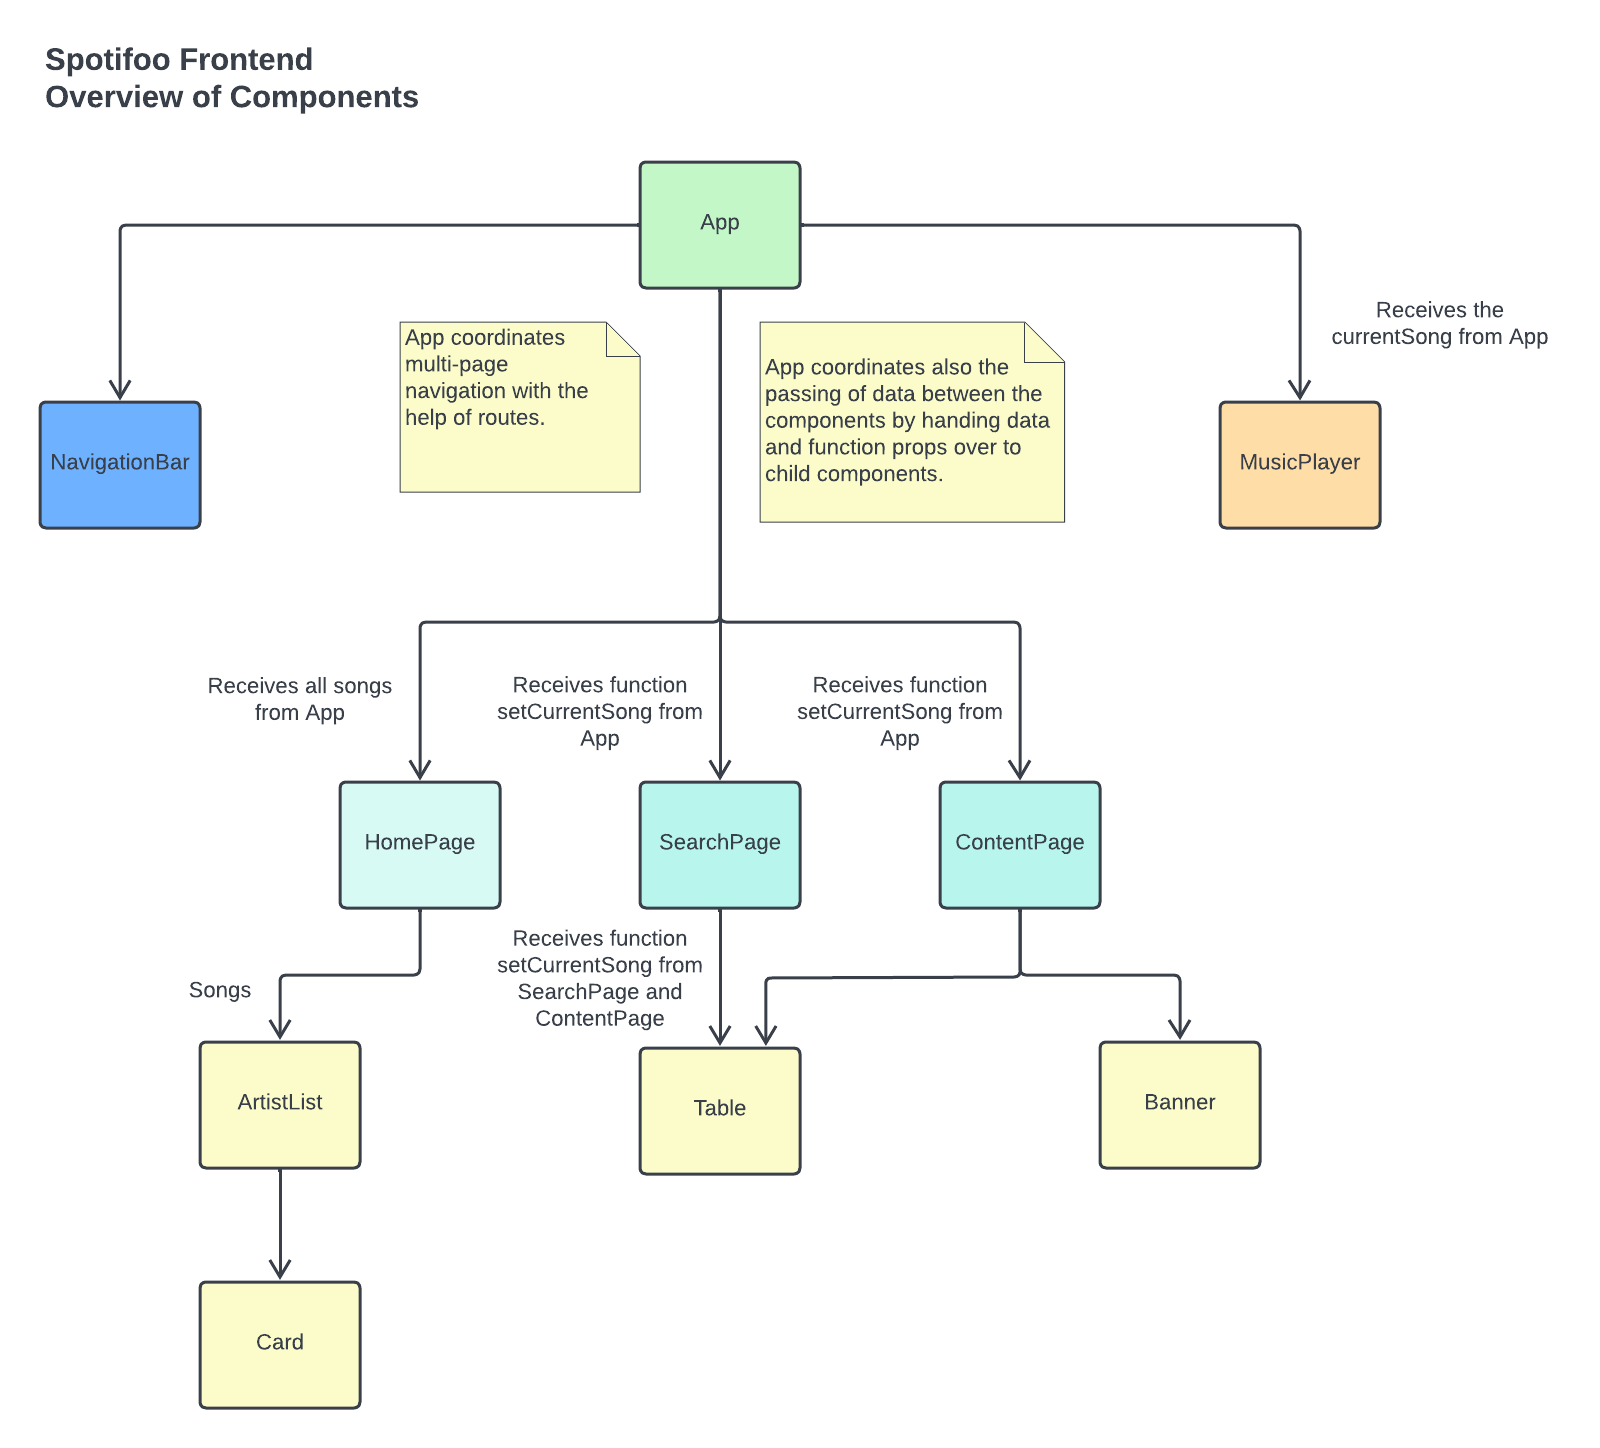
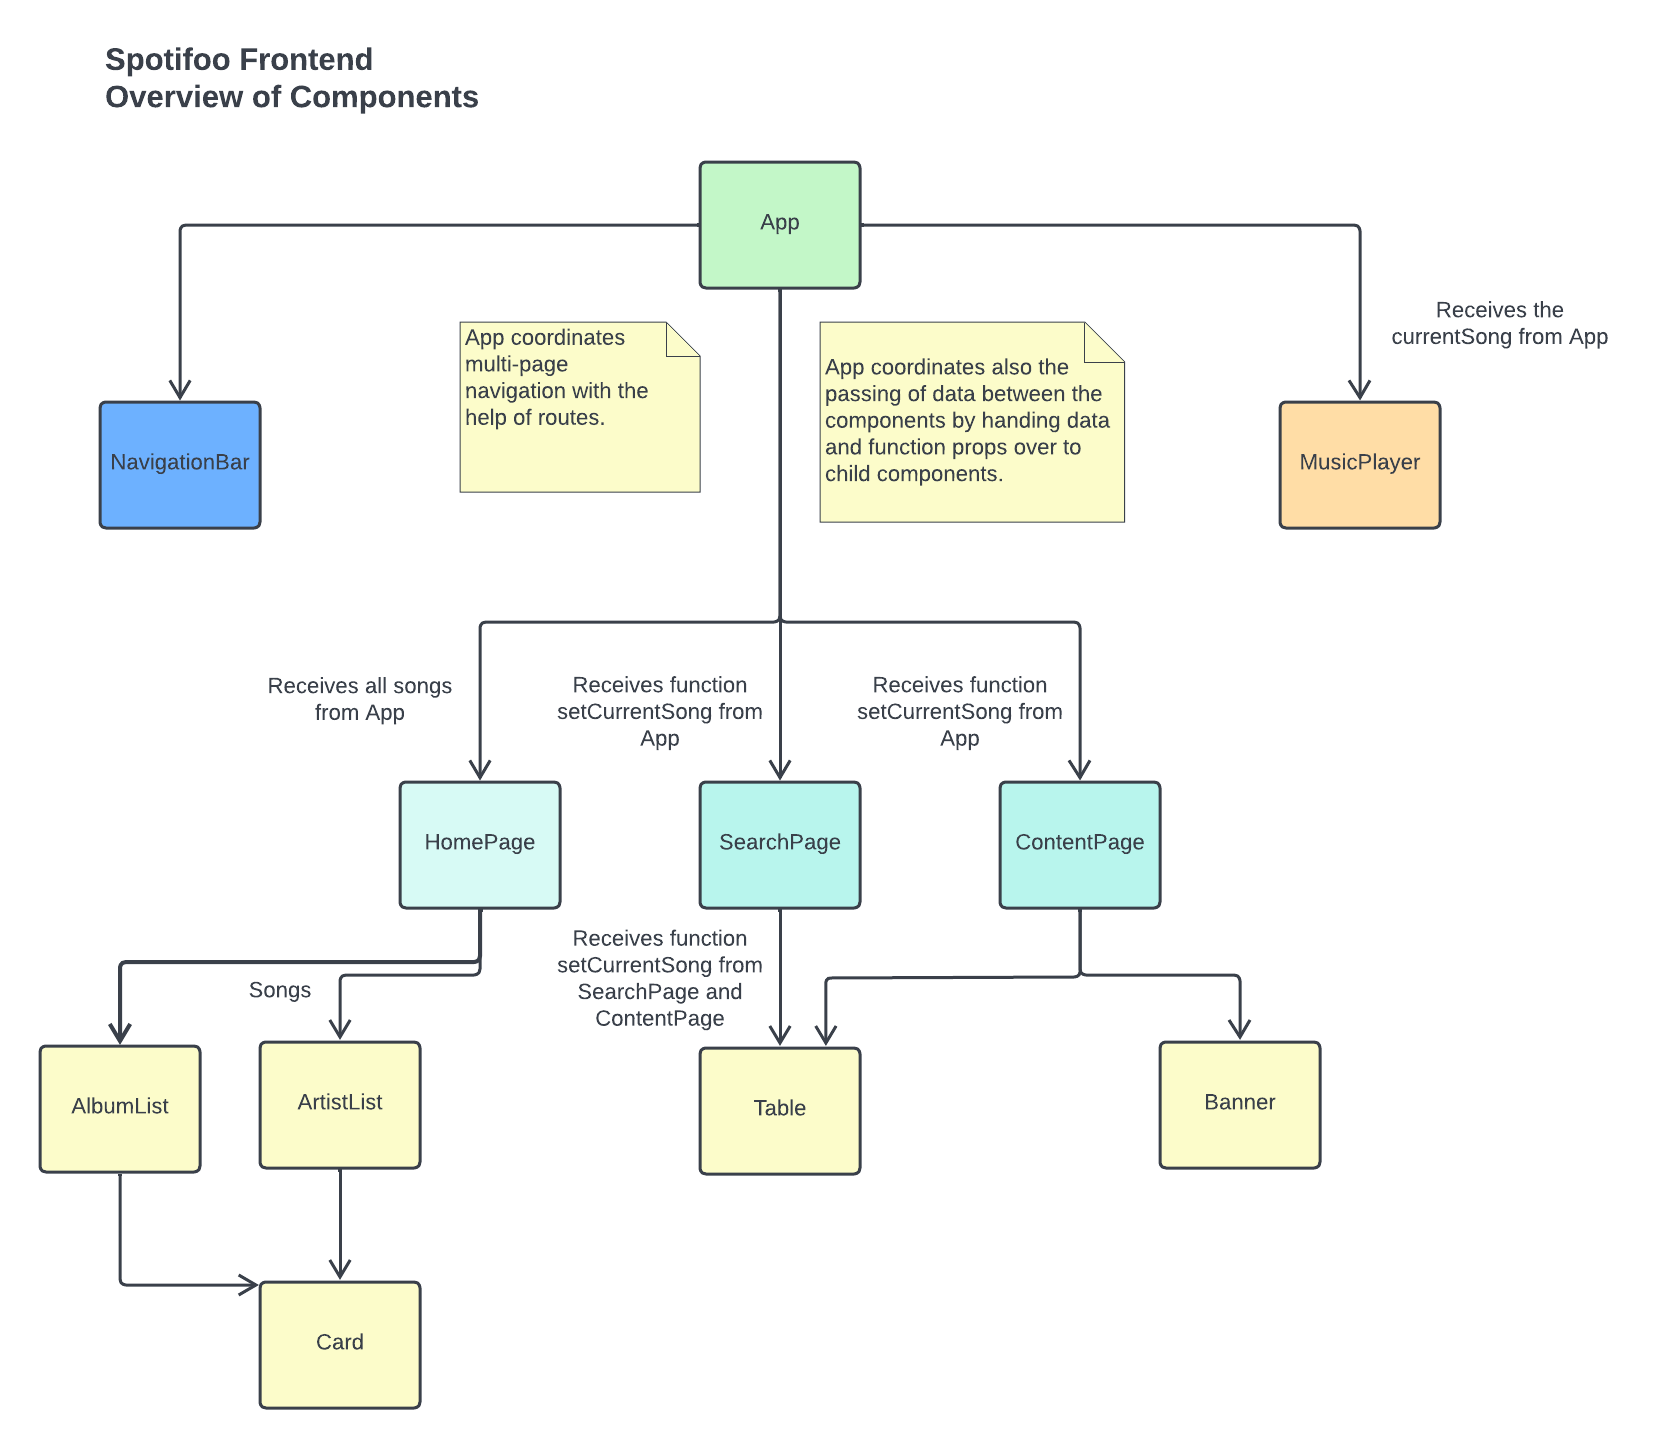
Updated diagram, added AlbumList and edited contentpage.

diff --git a/src/components/AlbumList.tsx b/src/components/AlbumList.tsx
@@ -1,0 +1,41 @@
+import iSong from "../interfaces/iSong";
+import Card from "./Card";
+
+interface iProps {
+  songs: iSong[];
+}
+
+export default function ArtistList({ songs }: iProps) {
+  let albums: Array<string> = [];
+  let data: Array<[string, string]> = [];
+
+  const getAlbums = () => {
+    songs.map((song) => {
+      if (!albums.includes(song.album)) {
+        albums.push(song.album);
+        var albumName: string = song.album;
+        var pathToAlbum: string = "";
+        if (song.pathToAlbum) {
+          pathToAlbum = song.pathToAlbum;
+        }
+
+        data.push([albumName, pathToAlbum]);
+      }
+    });
+  };
+
+  function renderAlbums() {
+    getAlbums();
+    return data.map((album, index) => {
+      return (
+        <>
+          <div>
+            <Card key={index} title={album[0]} pathToAlbum={album[1]} />
+          </div>
+        </>
+      );
+    });
+  }
+
+  return <div id="card-container"> {renderAlbums()} </div>;
+}

diff --git a/src/components/HomePage.tsx b/src/components/HomePage.tsx
@@ -4,6 +4,7 @@ import "../styles/style.css";
 
 import iSong from "../interfaces/iSong";
 import ArtistList from "./ArtistList";
+import AlbumList from "./AlbumList";
 
 interface iProps {
   songs: iSong[];
@@ -15,12 +16,15 @@ export default function HomePage({ songs }: iProps) {
       <main className="page">
         <section id="artist-section">
           <h2 id="Artist-title">Artist</h2>
-          <div id="cardsDiv">
+          <div id="cardsDivArtist">
             <ArtistList songs={songs} />
           </div>
         </section>
         <section>
           <h2 id="albums-title">Albums</h2>
+                    <div id="cardsDivAlbum">
+            <AlbumList songs={songs} />
+          </div>
         </section>
         <section>
           <h2 id="genres-title">Genres</h2>

diff --git a/src/components/Banner.tsx b/src/components/Banner.tsx
@@ -4,10 +4,10 @@ import iSong from "../interfaces/iSong";
 
 interface iProps {
   song: iSong;
+  title: string;
 }
 
-export default function Banner({ song }: iProps) {
-  let artist: string = song.artist;
+export default function Banner({ song, title }: iProps) {
   const imageURL: string = "http://localhost:8080".concat(song.pathToAlbum);
 
   return (
@@ -17,7 +17,7 @@ export default function Banner({ song }: iProps) {
         alt="Album art"
         onError={(event) => (event.currentTarget.src = PlaceHolder)}
       />
-      <h1 className="bannerTitle">{artist}</h1>
+      <h1 className="bannerTitle">{title}</h1>
     </header>
   );
 }

diff --git a/src/components/ContentPage.tsx b/src/components/ContentPage.tsx
@@ -17,9 +17,8 @@ export default function ContentPage({ setCurrentSong }: iProps) {
 
   const path: string = "http://localhost:8080/music/"
     .concat("?search=")
-    .concat(title)
-    .concat("&filter=artist");
-
+    .concat(title);
+   
   useEffect(() => {
     fetch(path)
       .then((response) => response.json())
@@ -35,7 +34,7 @@ export default function ContentPage({ setCurrentSong }: iProps) {
   return (
     <div>
       <main className="page">
-        <Banner song={songs[0]} />
+        <Banner song={songs[0]} title={title} />
         <Table songs={songs} setCurrentSong={setCurrentSong} />
       </main>
     </div>

diff --git a/src/styles/style.css b/src/styles/style.css
@@ -156,12 +156,20 @@ body {
   top: 32px;
 }
 
-#cardsDiv {
+#cardsDivArtist {
   position: absolute;
   width: 944px;
   height: 534px;
   left: 0px;
   top: 45px;
+}
+
+#cardsDivAlbum {
+  position: absolute;
+width: 992px;
+height: 809px;
+left: 232px;
+top: 704px;
 }
 
 .card img {
